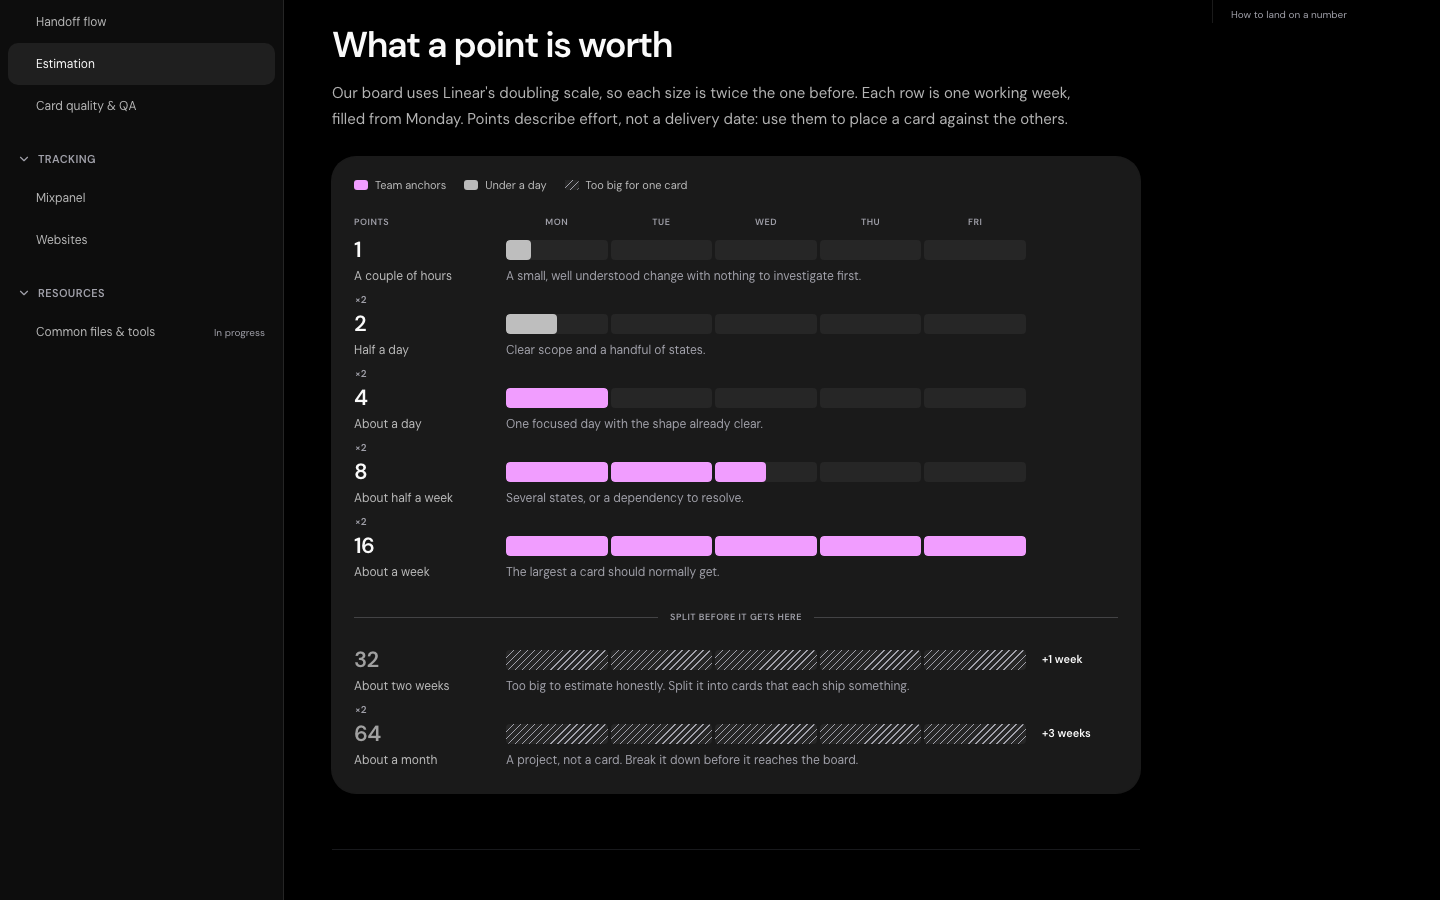
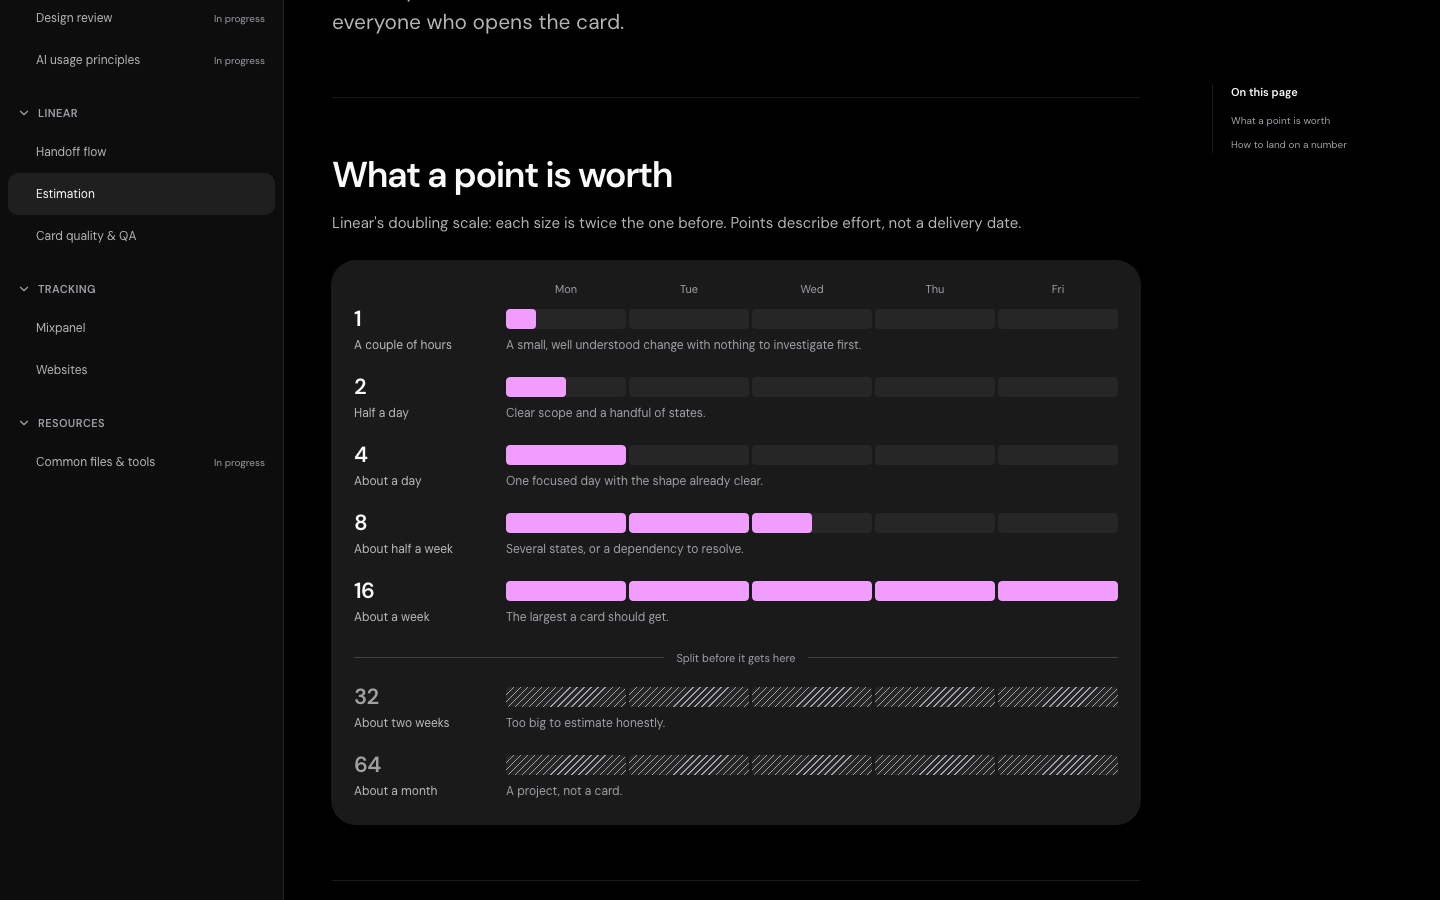
Estimation: cut noise from the scale and examples
Drop the x2 labels, legend and anchor colouring, the extra-weeks column,
all-caps labels, placeholder ticket ids, and checklist items the example
cards already cover.

diff --git a/src/features/design/DesignGuide.jsx b/src/features/design/DesignGuide.jsx
@@ -253,15 +253,15 @@ const PAGE_CONTENT = {
       {
         id: "point-scale",
         title: "What a point is worth",
-        body: "Our board uses Linear's doubling scale, so each size is twice the one before. Each row is one working week, filled from Monday. Points describe effort, not a delivery date: use them to place a card against the others.",
+        body: "Linear's doubling scale: each size is twice the one before. Points describe effort, not a delivery date.",
         scale: [
           { points: "1", days: 0.25, meaning: "A couple of hours", note: "A small, well understood change with nothing to investigate first." },
           { points: "2", days: 0.5, meaning: "Half a day", note: "Clear scope and a handful of states." },
-          { points: "4", days: 1, anchor: true, meaning: "About a day", note: "One focused day with the shape already clear." },
-          { points: "8", days: 2.5, anchor: true, meaning: "About half a week", note: "Several states, or a dependency to resolve." },
-          { points: "16", days: 5, anchor: true, meaning: "About a week", note: "The largest a card should normally get." },
-          { points: "32", days: 10, oversized: true, meaning: "About two weeks", note: "Too big to estimate honestly. Split it into cards that each ship something." },
-          { points: "64", days: 20, oversized: true, meaning: "About a month", note: "A project, not a card. Break it down before it reaches the board." },
+          { points: "4", days: 1, meaning: "About a day", note: "One focused day with the shape already clear." },
+          { points: "8", days: 2.5, meaning: "About half a week", note: "Several states, or a dependency to resolve." },
+          { points: "16", days: 5, meaning: "About a week", note: "The largest a card should get." },
+          { points: "32", days: 10, oversized: true, meaning: "About two weeks", note: "Too big to estimate honestly." },
+          { points: "64", days: 20, oversized: true, meaning: "About a month", note: "A project, not a card." },
         ],
       },
       {
@@ -270,10 +270,7 @@ const PAGE_CONTENT = {
         body: "Estimate the whole card, including the states, the edge cases, and the review rounds the work will actually need.",
         checklist: [
           "Size the work as written on the card. If the scope is not clear enough to size, the card is not ready to estimate.",
-          "Include the states, the empty and error paths, and the review rounds, not just the ideal screen.",
-          "For anything under a day, use the small end of the scale. Pick by how much is unknown, not by counting hours.",
-          "If a card would go past 16, split it into cards that each deliver something on their own.",
-          "Re-point when scope changes, and say on the card why the number moved.",
+          "For anything under a day, pick by how much is unknown, not by counting hours.",
         ],
         estimateExamples: true,
       },
@@ -577,61 +574,46 @@ const estimateLength = (days) => (days < 1 ? `about ${days * 8} hours` : `about 
 
 /* One row per size, each a single working week filled from Monday, so the
    doubling reads as bars growing against the same five days. Sizes past a
-   week fill it with hatching and say how many more weeks they need. */
+   week sit under the split line with the week hatched. */
 function EstimateScale({ scale, c }) {
   const hatch = hatchFill(c.muted);
   return (
     <figure className="eon-est" aria-label="Estimate scale" style={{ background: c.panel, boxShadow: "var(--shadow-surface)" }}>
-      <figcaption className="eon-est-legend" style={{ color: c.secondary }}>
-        <span><i style={{ background: c.brand }} />Team anchors</span>
-        <span><i style={{ background: c.secondary }} />Under a day</span>
-        <span><i style={{ background: `${hatch}, ${c.raised}` }} />Too big for one card</span>
-      </figcaption>
       <div className="eon-est-axis" aria-hidden="true" style={{ color: c.muted }}>
-        <span>Points</span>
         <div>{WEEKDAYS.map(([day, short]) => <span key={day}><b className="is-long">{day}</b><b className="is-short">{short}</b></span>)}</div>
       </div>
       <ol className="eon-est-rows">
-        {scale.map((step, index) => {
-          const weeks = step.days / 5;
-          return (
-            <Fragment key={step.points}>
-              {step.oversized && !scale[index - 1]?.oversized && (
-                <li className="eon-est-split" style={{ color: c.muted }}>Split before it gets here</li>
-              )}
-              <li className={`eon-est-row${step.oversized ? " is-oversized" : ""}`}>
-                {index > 0 && <span className="eon-est-double" aria-hidden="true" style={{ color: c.muted }}>×2</span>}
-                <strong className="eon-est-points">{step.points}<span className="eon-visually-hidden"> points</span></strong>
-                <span className="eon-est-meaning" style={{ color: c.secondary }}>{step.meaning}<span className="eon-visually-hidden">, {estimateLength(step.days)}.</span></span>
-                <div className="eon-est-week" aria-hidden="true">
-                  {WEEKDAYS.map(([day], dayIndex) => {
-                    const filled = Math.max(0, Math.min(1, step.days - dayIndex));
-                    return (
-                      <span key={day} style={{ background: c.raised }}>
-                        {filled > 0 && <i style={{ width: `${filled * 100}%`, background: step.oversized ? hatch : step.anchor ? c.brand : c.secondary }} />}
-                      </span>
-                    );
-                  })}
-                </div>
-                {weeks > 1 && <span className="eon-est-more" aria-hidden="true" style={{ color: c.text }}>+{weeks - 1} {weeks - 1 === 1 ? "week" : "weeks"}</span>}
-                <p className="eon-est-note" style={{ color: c.muted }}>{step.note}</p>
-              </li>
-            </Fragment>
-          );
-        })}
+        {scale.map((step, index) => (
+          <Fragment key={step.points}>
+            {step.oversized && !scale[index - 1]?.oversized && (
+              <li className="eon-est-split" style={{ color: c.muted }}>Split before it gets here</li>
+            )}
+            <li className={`eon-est-row${step.oversized ? " is-oversized" : ""}`}>
+              <strong className="eon-est-points">{step.points}<span className="eon-visually-hidden"> points</span></strong>
+              <span className="eon-est-meaning" style={{ color: c.secondary }}>{step.meaning}<span className="eon-visually-hidden">, {estimateLength(step.days)}.</span></span>
+              <div className="eon-est-week" aria-hidden="true">
+                {WEEKDAYS.map(([day], dayIndex) => {
+                  const filled = Math.max(0, Math.min(1, step.days - dayIndex));
+                  return (
+                    <span key={day} style={{ background: c.raised }}>
+                      {filled > 0 && <i style={{ width: `${filled * 100}%`, background: step.oversized ? hatch : c.brand }} />}
+                    </span>
+                  );
+                })}
+              </div>
+              <p className="eon-est-note" style={{ color: c.muted }}>{step.note}</p>
+            </li>
+          </Fragment>
+        ))}
       </ol>
     </figure>
   );
 }
 
-function EstimateTicket({ c, id = "DES-###", title, hint, children }) {
+function EstimateTicket({ c, title, children }) {
   return (
     <div className="eon-est-ticket" style={{ background: c.raised }}>
-      <div>
-        <small style={{ color: c.muted }}>{id}</small>
-        <strong>{title}</strong>
-        {hint && <small style={{ color: c.muted }}>{hint}</small>}
-      </div>
+      <strong>{title}</strong>
       {children}
     </div>
   );
@@ -654,10 +636,10 @@ function EstimateExamples({ c }) {
           <p style={{ color: c.secondary }}>A card past 16 becomes smaller cards that each ship something.</p>
         </figcaption>
         <div className="eon-est-demo">
-          <EstimateTicket c={c} title="Trip review flow" hint="Too big to estimate honestly">
+          <EstimateTicket c={c} title="Trip review flow">
             <EstimatePoints c={c} oversized>32</EstimatePoints>
           </EstimateTicket>
-          <span className="eon-est-demo-arrow" style={{ color: c.muted }}><ArrowDown size={15} aria-hidden="true" />Split into</span>
+          <ArrowDown className="eon-est-demo-arrow" size={15} role="img" aria-label="Split into" style={{ color: c.muted }} />
           <EstimateTicket c={c} title="Rate the trip">
             <EstimatePoints c={c}>16</EstimatePoints>
           </EstimateTicket>
@@ -677,10 +659,7 @@ function EstimateExamples({ c }) {
           </EstimateTicket>
           <div className="eon-est-comment" style={{ background: c.active }}>
             <span style={{ background: c.raised, color: c.brand }}>You</span>
-            <div>
-              <strong>Re-pointed 4 → 8</strong>
-              <p style={{ color: c.secondary }}>Review added the empty and loading states to the carousel.</p>
-            </div>
+            <p style={{ color: c.secondary }}>Review added the empty and loading states.</p>
           </div>
         </div>
       </figure>

diff --git a/src/index.css b/src/index.css
@@ -1625,28 +1625,22 @@ button.eon-save-state { cursor: pointer; }
 /* Estimate scale: one row per size, each a single working week filled from
    Monday, so the doubling reads as bars growing against the same five days. */
 .eon-est { margin: 24px 0 0; padding: 20px 22px 24px; border-radius: 24px; }
-.eon-est-legend { display: flex; flex-wrap: wrap; gap: 8px 18px; margin: 0 0 22px; font-size: 11px; }
-.eon-est-legend span { display: inline-flex; align-items: center; gap: 7px; }
-.eon-est-legend i { display: block; width: 14px; height: 10px; border-radius: 3px; }
-.eon-est-axis, .eon-est-row { display: grid; grid-template-columns: 136px minmax(0, 1fr) 76px; column-gap: 16px; }
-.eon-est-axis { margin-bottom: 10px; font-size: 9px; font-weight: 700; letter-spacing: .06em; text-transform: uppercase; }
-.eon-est-axis > div { display: grid; grid-template-columns: repeat(5, minmax(0, 1fr)); gap: 3px; text-align: center; }
+.eon-est-axis, .eon-est-row { display: grid; grid-template-columns: 136px minmax(0, 1fr); column-gap: 16px; }
+.eon-est-axis { margin-bottom: 10px; font-size: 11px; }
+.eon-est-axis > div { display: grid; grid-column: 2; grid-template-columns: repeat(5, minmax(0, 1fr)); gap: 3px; text-align: center; }
 .eon-est-axis b { font-weight: inherit; }
 .eon-est-axis .is-short { display: none; }
-.eon-est-rows { display: flex; margin: 0; padding: 0; flex-direction: column; gap: 28px; list-style: none; }
-.eon-est-row { position: relative; grid-template-areas: "num week more" "meaning note note"; align-items: center; row-gap: 6px; }
+.eon-est-rows { display: flex; margin: 0; padding: 0; flex-direction: column; gap: 22px; list-style: none; }
+.eon-est-row { grid-template-areas: "num week" "meaning note"; align-items: center; row-gap: 6px; }
 .eon-est-points { grid-area: num; font-size: 22px; font-weight: 700; letter-spacing: -.03em; line-height: 1; font-variant-numeric: tabular-nums; }
 .eon-est-meaning { grid-area: meaning; align-self: start; font-size: 12px; line-height: 1.5; }
 .eon-est-week { display: grid; grid-area: week; grid-template-columns: repeat(5, minmax(0, 1fr)); gap: 3px; }
 .eon-est-week > span { position: relative; overflow: hidden; height: 20px; border-radius: 4px; }
 .eon-est-week i { position: absolute; inset: 0 auto 0 0; display: block; border-radius: 4px; }
-.eon-est-more { grid-area: more; font-size: 11px; font-weight: 650; white-space: nowrap; }
 .eon-est-note { grid-area: note; align-self: start; margin: 0; font-size: 12px; line-height: 1.5; text-wrap: pretty; }
-.eon-est-double { position: absolute; top: -21px; left: 1px; font-size: 10px; font-weight: 700; }
 .eon-est-row.is-oversized .eon-est-points { opacity: .6; }
-.eon-est-split { display: flex; align-items: center; gap: 12px; margin: 2px 0 -4px; font-size: 9px; font-weight: 700; letter-spacing: .06em; text-transform: uppercase; }
+.eon-est-split { display: flex; align-items: center; gap: 12px; margin: 2px 0 -2px; font-size: 11px; }
 .eon-est-split::before, .eon-est-split::after { content: ""; height: 1px; flex: 1; background: currentColor; opacity: .3; }
-.eon-est-split + .eon-est-row .eon-est-double { display: none; }
 
 .eon-est-examples { display: grid; grid-template-columns: repeat(2, minmax(0, 1fr)); align-items: start; gap: 14px; margin-top: 14px; }
 .eon-est-examples > figure { display: flex; margin: 0; flex-direction: column; gap: 16px; padding: 18px; border-radius: 24px; }
@@ -1654,15 +1648,12 @@ button.eon-save-state { cursor: pointer; }
 .eon-est-examples figcaption p { margin: 4px 0 0; font-size: 12px; line-height: 1.55; text-wrap: pretty; }
 .eon-est-demo { display: flex; flex-direction: column; gap: 8px; }
 .eon-est-ticket { display: flex; align-items: center; justify-content: space-between; gap: 12px; padding: 10px 10px 10px 12px; border-radius: 12px; }
-.eon-est-ticket > div { display: flex; min-width: 0; flex-direction: column; gap: 2px; }
-.eon-est-ticket small { font-size: 9px; font-weight: 650; font-variant-numeric: tabular-nums; }
 .eon-est-ticket strong { font-size: 12px; font-weight: 650; }
 .eon-est-pill { display: inline-flex; align-items: center; gap: 4px; flex: 0 0 auto; padding: 4px 9px; border-radius: 999px; font-size: 12px; font-weight: 700; font-variant-numeric: tabular-nums; }
-.eon-est-demo-arrow { display: flex; align-items: center; gap: 6px; padding: 2px 12px; font-size: 10px; font-weight: 650; }
-.eon-est-comment { display: flex; align-items: flex-start; gap: 10px; margin-left: 16px; padding: 12px; border-radius: 12px; }
+.eon-est-demo-arrow { margin: 0 12px; }
+.eon-est-comment { display: flex; align-items: center; gap: 10px; margin-left: 16px; padding: 12px; border-radius: 12px; }
 .eon-est-comment > span { display: grid; width: 30px; height: 30px; flex: 0 0 30px; place-items: center; border-radius: 9px; font-size: 9px; font-weight: 700; }
-.eon-est-comment strong { font-size: 11px; font-weight: 650; }
-.eon-est-comment p { margin: 3px 0 0; font-size: 11px; line-height: 1.5; text-wrap: pretty; }
+.eon-est-comment p { margin: 0; font-size: 11px; line-height: 1.5; text-wrap: pretty; }
 
 .eon-design-checklist { display: flex; overflow: hidden; margin: 28px 0 0; padding: 0; flex-direction: column; border-radius: 24px; list-style: none; }
 .eon-design-checklist li { display: flex; align-items: flex-start; gap: 12px; padding: 16px 18px; border-top: 1px solid rgba(144, 148, 165, .15); }
@@ -1786,14 +1777,11 @@ button.eon-save-state { cursor: pointer; }
   .eon-qa-protocol { grid-template-columns: minmax(0, 1fr); gap: 22px; }
   .eon-qa-reply { margin-left: 16px; }
   .eon-est { padding: 18px 16px 20px; }
-  .eon-est-axis, .eon-est-row { grid-template-columns: 34px minmax(0, 1fr) auto; column-gap: 12px; }
-  .eon-est-axis > span { visibility: hidden; }
-  .eon-est-axis > div { grid-column: 2 / 4; }
+  .eon-est-axis, .eon-est-row { grid-template-columns: 34px minmax(0, 1fr); column-gap: 12px; }
   .eon-est-axis .is-long { display: none; }
   .eon-est-axis .is-short { display: inline; }
-  .eon-est-row { grid-template-areas: "num meaning more" ". week week" ". note note"; }
+  .eon-est-row { grid-template-areas: "num meaning" ". week" ". note"; }
   .eon-est-points { font-size: 20px; }
   .eon-est-meaning { align-self: center; font-weight: 650; }
-  .eon-est-double { top: -20px; }
   .eon-est-examples { grid-template-columns: minmax(0, 1fr); }
 }

diff --git a/src/lib/changelog.js b/src/lib/changelog.js
@@ -28,7 +28,7 @@ export const CHANGELOG = [
         label: "Design",
         items: [
           "Estimation shows every point size on one chart: a row per size, each a working week filled from Monday, so the doubling is easy to see.",
-          "Sizes past 16 sit under a split line and say how many extra weeks they'd take.",
+          "Sizes past 16 sit under a split line.",
           "Two worked examples: splitting a 32 into cards that each ship, and re-pointing a card with a reason.",
         ],
       },
